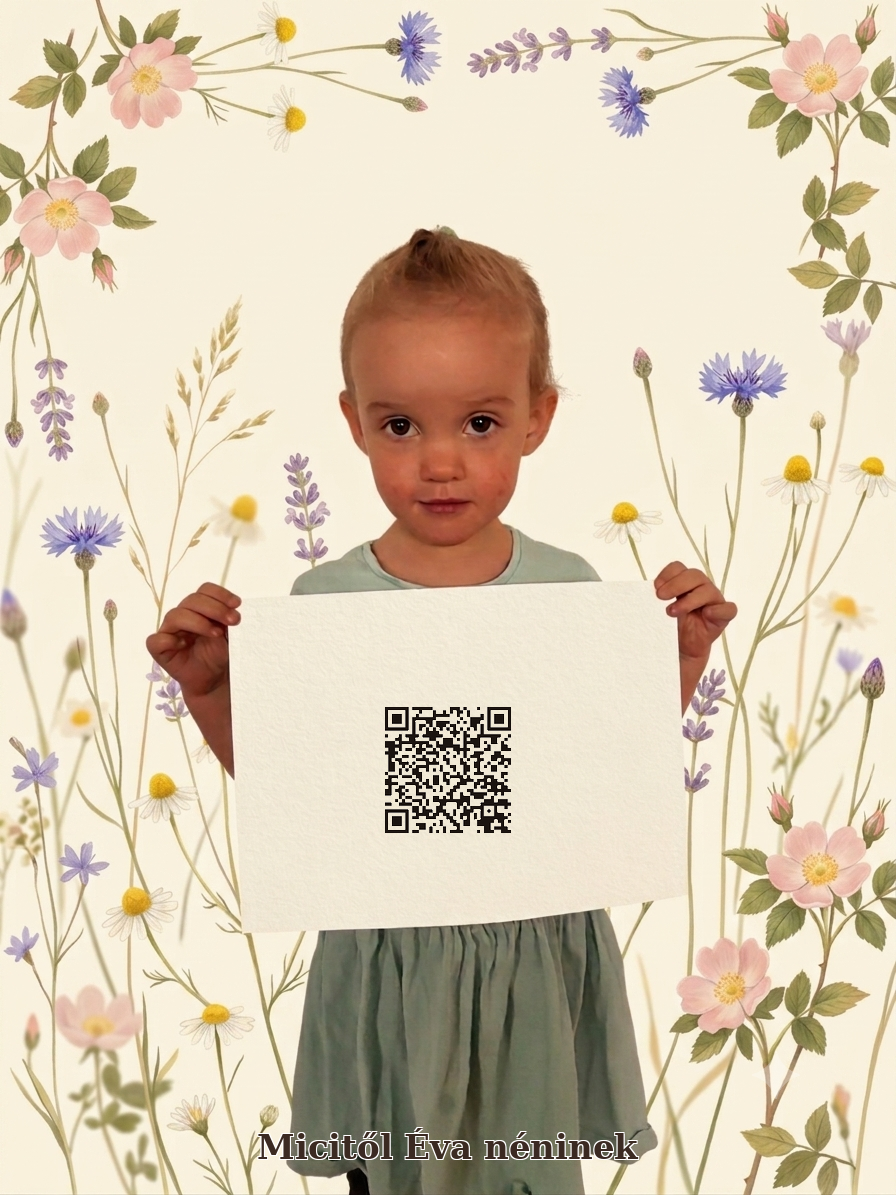
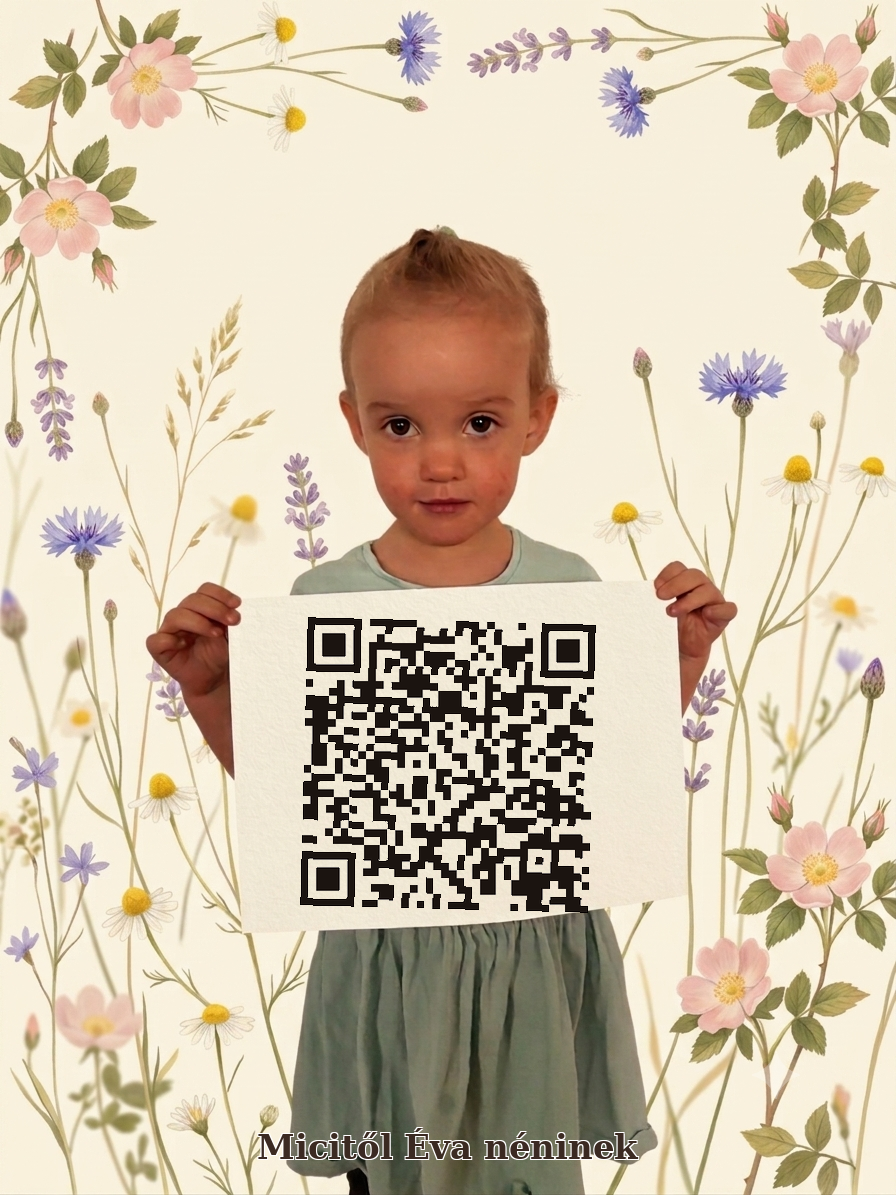
Enlarge and align greeting card QR codes

Changed region(s): [[0.3125, 0.4954, 0.6875, 0.7741]]

diff --git a/scripts/generate-greeting-cards.py b/scripts/generate-greeting-cards.py
@@ -21,7 +21,10 @@ FONT_PATH = Path("/usr/share/fonts/truetype/dejavu/DejaVuSerif-Bold.ttf")
 # Measured on greeting-template.png (896x1195).  The QR belongs in the
 # marked centre of the paper, below the girl's hands and chin.
 PAPER_BOX = (240, 590, 679, 940)
-QR_BOX = (378, 700, 518, 840)
+# A 320 px code nearly fills the paper height while retaining a scan margin.
+QR_BOX = (288, 605, 608, 925)
+# The paper's top edge slopes slightly downward towards the right.
+QR_ROTATION_DEGREES = -1.5
 TEXT_BOTTOM_OFFSET = 68
 
 TRACKS = [
@@ -83,7 +86,21 @@ def compose_card(template: Image.Image, recipient: str, url: str) -> Image.Image
     dark_modules = qr.convert("L").point(
         lambda value: 255 if value < 128 else 0
     )
-    card.paste(qr, (left, top), dark_modules)
+    qr = qr.rotate(
+        QR_ROTATION_DEGREES,
+        resample=Image.Resampling.NEAREST,
+        expand=True,
+        fillcolor="#ffffff",
+    )
+    dark_modules = dark_modules.rotate(
+        QR_ROTATION_DEGREES,
+        resample=Image.Resampling.NEAREST,
+        expand=True,
+        fillcolor=0,
+    )
+    qr_x = (left + right - qr.width) // 2
+    qr_y = (top + bottom - qr.height) // 2
+    card.paste(qr, (qr_x, qr_y), dark_modules)
 
     caption = f"Micitől {recipient}"
     font_size = 34
@@ -109,7 +126,10 @@ def main() -> int:
     OUTPUT_DIR.mkdir(parents=True, exist_ok=True)
 
     print(f"Paper box: {PAPER_BOX}")
-    print(f"QR box: {QR_BOX} ({QR_BOX[2] - QR_BOX[0]} px)")
+    print(
+        f"QR box: {QR_BOX} ({QR_BOX[2] - QR_BOX[0]} px, "
+        f"{QR_ROTATION_DEGREES}°)"
+    )
 
     for track_name, recipient in TRACKS:
         url = build_track_url(base_url, track_name)
